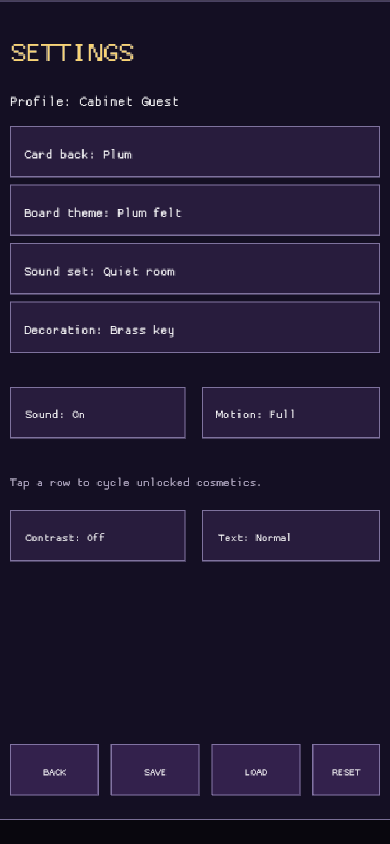
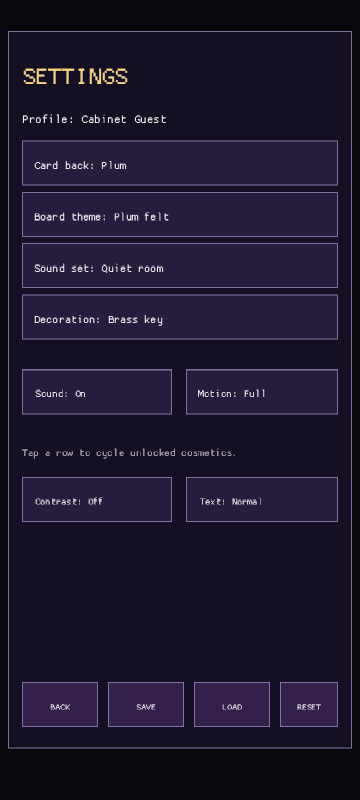
The portrait settings rows answer every touch cleanly (Settings routing accessibility)
Portrait Settings hit regions now match their rendered 44px rows, and the replay tutorial action has the same touch-sized reach. Refreshed Settings captures verify the corrected control alignment.

diff --git a/src/responsive_ui.rs b/src/responsive_ui.rs
@@ -578,20 +578,20 @@ pub fn settings_clicks(state: &AppState, p: Vec2) -> Vec<UiAction> {
         return vec![UiAction::ResetData];
     }
     for (rect, action) in [
-        (Rect::new(22., 137., 316., 42.), UiAction::CycleCardBack),
-        (Rect::new(22., 187., 316., 42.), UiAction::CycleBoardTheme),
-        (Rect::new(22., 237., 316., 42.), UiAction::CycleSoundSet),
+        (Rect::new(22., 137., 316., 44.), UiAction::CycleCardBack),
+        (Rect::new(22., 187., 316., 44.), UiAction::CycleBoardTheme),
+        (Rect::new(22., 237., 316., 44.), UiAction::CycleSoundSet),
         (
-            Rect::new(22., 287., 316., 42.),
+            Rect::new(22., 287., 316., 44.),
             UiAction::CycleCabinetDecoration,
         ),
-        (Rect::new(22., 360., 150., 42.), UiAction::ToggleSound),
-        (Rect::new(186., 360., 152., 42.), UiAction::ToggleMotion),
+        (Rect::new(22., 360., 150., 44.), UiAction::ToggleSound),
+        (Rect::new(186., 360., 152., 44.), UiAction::ToggleMotion),
         (
-            Rect::new(22., 465., 150., 42.),
+            Rect::new(22., 465., 150., 44.),
             UiAction::ToggleHighContrast,
         ),
-        (Rect::new(186., 465., 152., 42.), UiAction::ToggleLargeText),
+        (Rect::new(186., 465., 152., 44.), UiAction::ToggleLargeText),
     ] {
         if rect.contains(p) {
             return vec![action];
@@ -644,14 +644,14 @@ pub fn draw_tutorial(game: GameId) {
 
 pub fn draw_replay_button() {
     panel(
-        Rect::new(245., 10., 105., 38.),
+        Rect::new(245., 10., 105., 44.),
         Color::new(0.16, 0.11, 0.25, 0.96),
     );
-    text("TUTORIAL", 258., 34., 11., WHITE);
+    text("TUTORIAL", 258., 38., 11., WHITE);
 }
 
 pub fn replay_clicks(p: Vec2) -> bool {
-    Rect::new(245., 10., 105., 38.).contains(p)
+    Rect::new(245., 10., 105., 44.).contains(p)
 }
 
 fn cabinet_status(state: &AppState, game: GameId) -> &'static str {

diff --git a/TODO.md b/TODO.md
@@ -1362,3 +1362,8 @@ contract, shared confirmation safety, responsive capture coverage, and the
 
 - [x] Resize portrait Nonogram and Minesweeper preset selectors to
   touch-complete targets with refreshed puzzle captures.
+
+## Phase 143 — Portrait Settings routing accessibility
+
+- [x] Align portrait Settings row hit regions and the replay tutorial action
+  with their rendered touch-sized controls.
